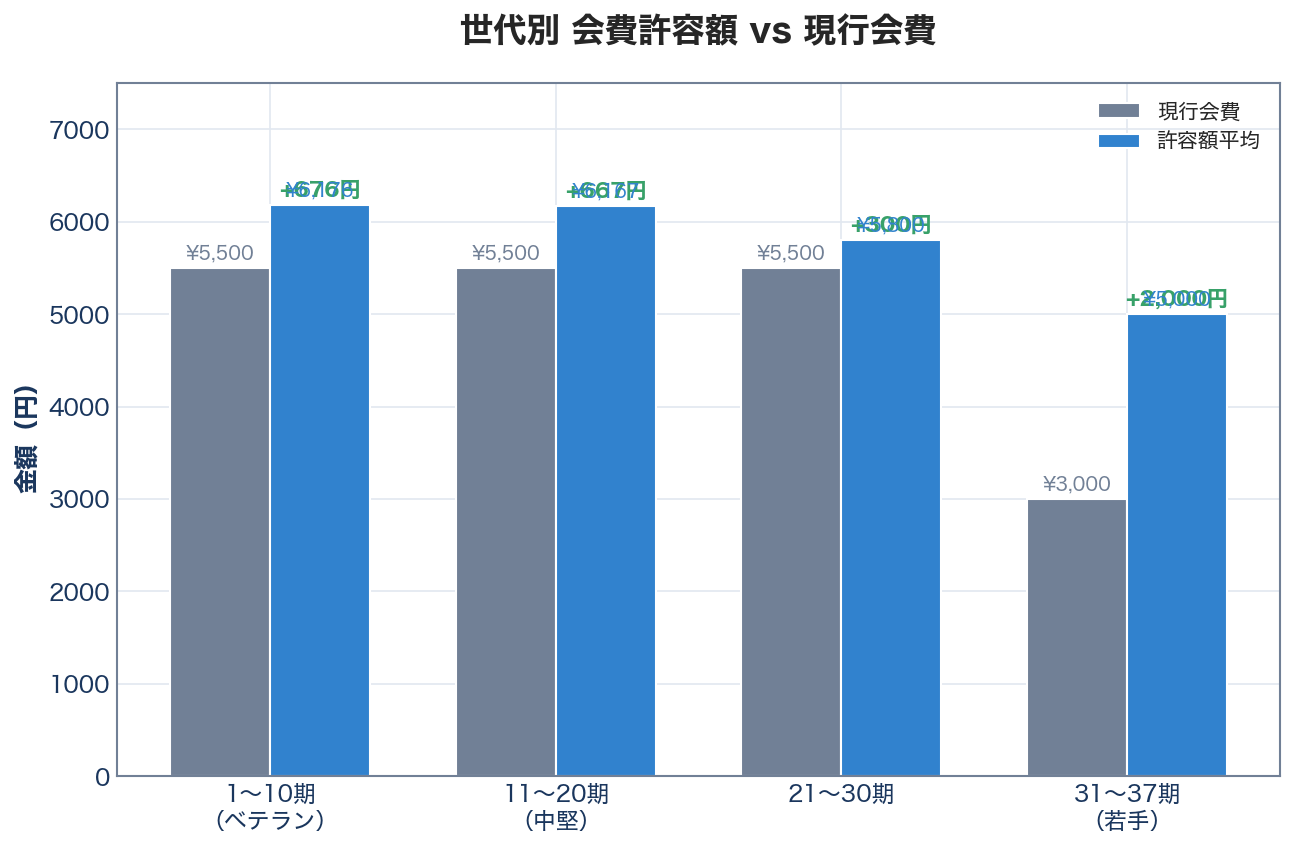
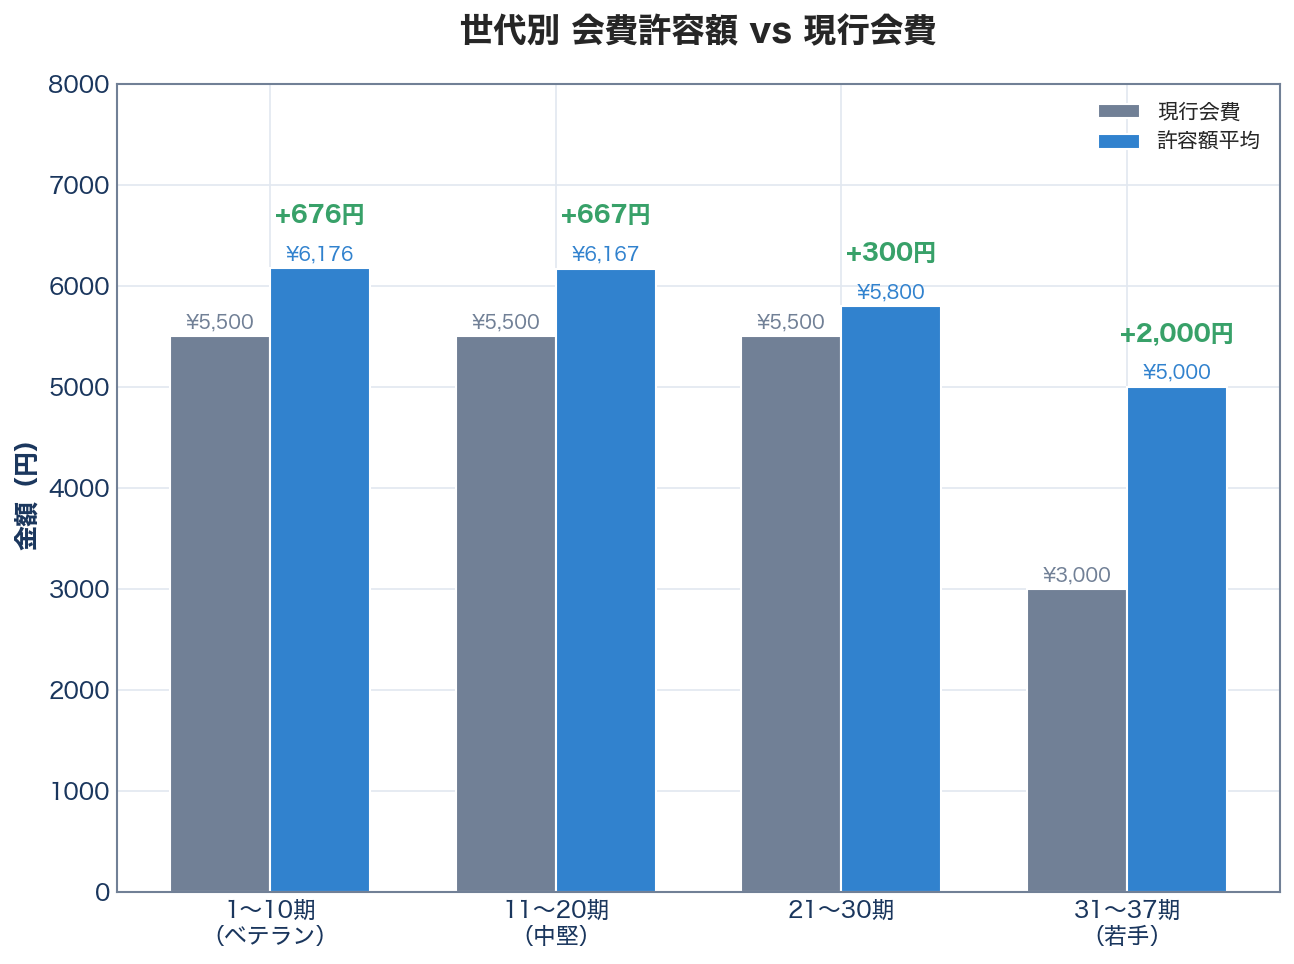
fix: 会費許容額グラフのテキスト重なりを修正
- Y軸の上限を8000に拡大
- 差額注釈の位置を+450に調整
- 図の高さを7に増加

diff --git a/generate_charts.py b/generate_charts.py
@@ -306,7 +306,7 @@ def chart_fee_tolerance():
     current_fee = [5500, 5500, 5500, 3000]
     tolerance = [6176, 6167, 5800, 5000]
 
-    fig, ax = plt.subplots(figsize=(10, 6))
+    fig, ax = plt.subplots(figsize=(10, 7))
 
     x = np.arange(len(generations))
     width = 0.35
@@ -314,27 +314,29 @@ def chart_fee_tolerance():
     bars1 = ax.bar(x - width/2, current_fee, width, label='現行会費', color=COLORS['gray'], edgecolor='white')
     bars2 = ax.bar(x + width/2, tolerance, width, label='許容額平均', color=COLORS['secondary'], edgecolor='white')
 
-    # 差額を表示
-    for i, (curr, tol) in enumerate(zip(current_fee, tolerance)):
-        diff = tol - curr
-        if diff > 0:
-            ax.annotate(f'+{diff:,}円', xy=(i + width/2, tol + 100),
-                       ha='center', fontsize=10, fontweight='bold', color=COLORS['success'])
-
     ax.set_ylabel('金額（円）', fontsize=12, fontweight='bold')
     ax.set_title('世代別 会費許容額 vs 現行会費', fontsize=16, fontweight='bold', pad=20)
     ax.set_xticks(x)
     ax.set_xticklabels(generations, fontsize=11)
     ax.legend(loc='upper right', fontsize=10)
-    ax.set_ylim(0, 7500)
+    ax.set_ylim(0, 8000)
 
-    # 値を表示
+    # 現行会費の値を表示（バーの上）
     for bar in bars1:
-        ax.text(bar.get_x() + bar.get_width()/2, bar.get_height() + 100,
+        ax.text(bar.get_x() + bar.get_width()/2, bar.get_height() + 80,
                 f'¥{int(bar.get_height()):,}', ha='center', fontsize=9, color=COLORS['gray'])
+
+    # 許容額の値を表示（バーの上）
     for bar in bars2:
-        ax.text(bar.get_x() + bar.get_width()/2, bar.get_height() + 100,
+        ax.text(bar.get_x() + bar.get_width()/2, bar.get_height() + 80,
                 f'¥{int(bar.get_height()):,}', ha='center', fontsize=9, color=COLORS['secondary'])
+
+    # 差額を表示（さらに上に配置）
+    for i, (curr, tol) in enumerate(zip(current_fee, tolerance)):
+        diff = tol - curr
+        if diff > 0:
+            ax.annotate(f'+{diff:,}円', xy=(i + width/2, tol + 450),
+                       ha='center', fontsize=11, fontweight='bold', color=COLORS['success'])
 
     save_figure(fig, 'fee_tolerance.png')
 
